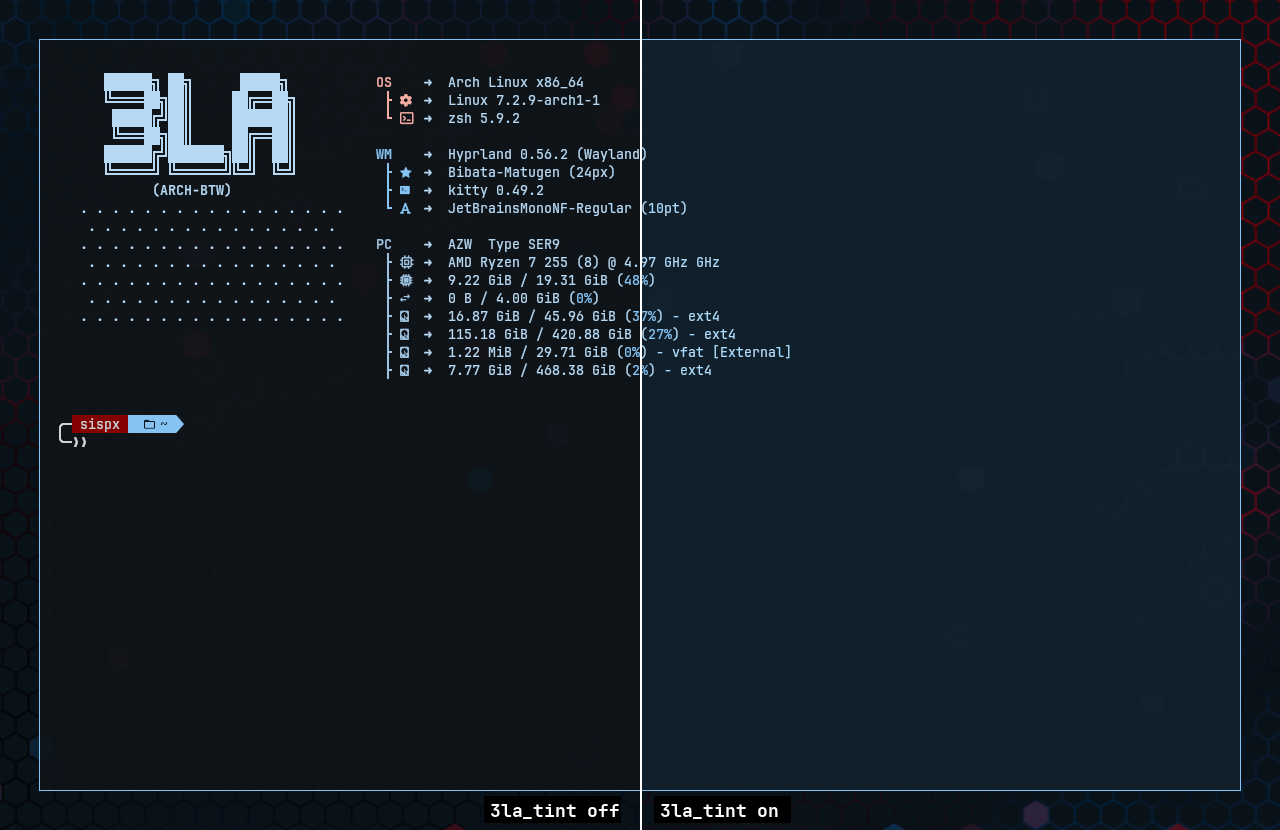
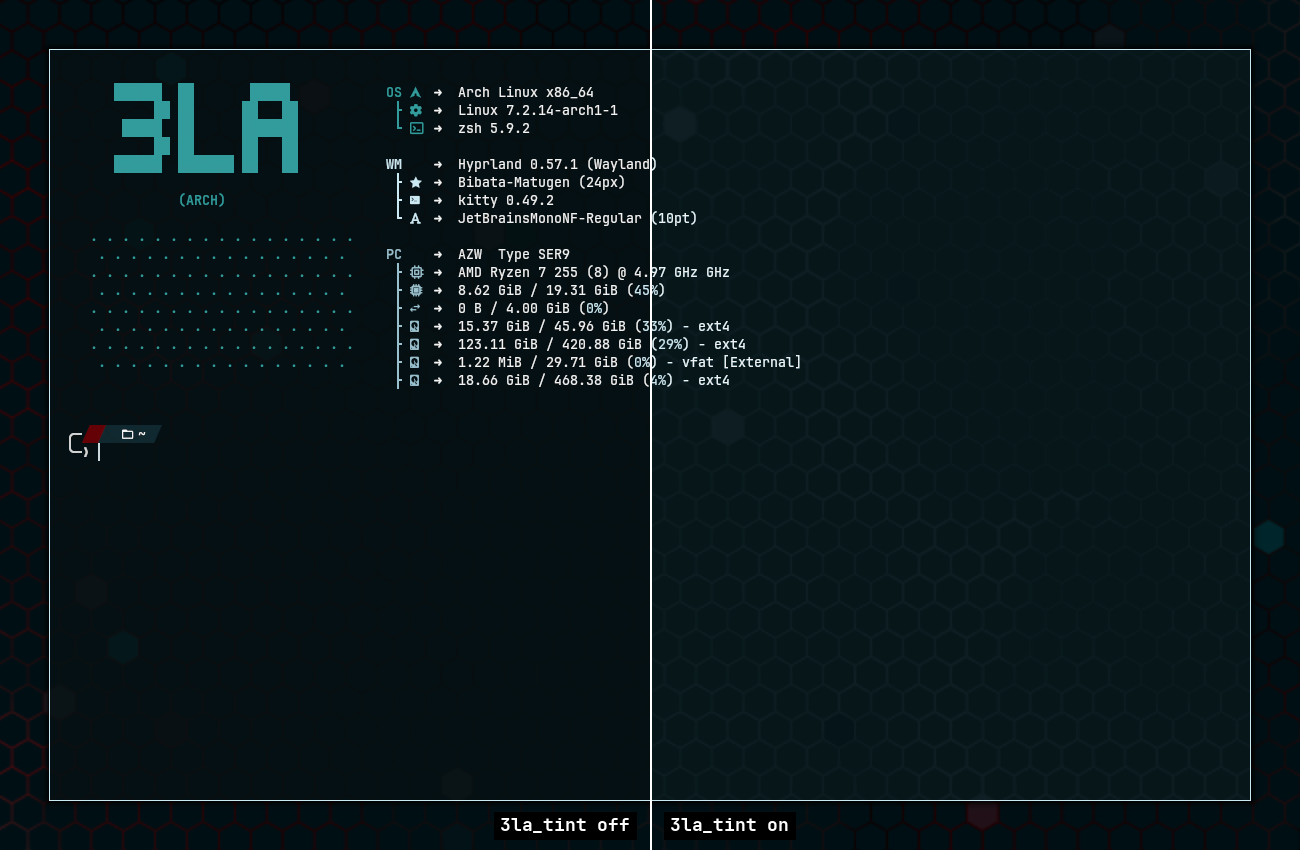
modified:   3LA-Corners/README.md 	modified:   3LA-GlitchClose/README.md 	modified:   3LA-MilSpec/README.md 	modified:   3LA-Tint/README.md 	modified:   3LA-TitleBars/README.md 	modified:   README.md 	modified:   assets/corners.png 	modified:   assets/milspec-no-titlebar.png 	modified:   assets/mils

diff --git a/README.md b/README.md
@@ -5,7 +5,7 @@ aesthetic: chamfered HUD frames, targeting-reticle corner brackets, reserved
 title bars, a GLSL "signal lost" window-close effect, and a shader that pulls
 un-themeable apps toward your theme colour.
 
-All are C++ Hyprland plugins built against **Hyprland 0.57.0** (`0aa6745`),
+All are C++ Hyprland plugins built against **Hyprland 0.57.1** (`acc1aa0`),
 configured only through Hyprland's Lua config (`hl.config`), and installable
 with `hyprpm`. Every plugin has an `enabled` option that turns it off live
 without unloading it.
@@ -138,8 +138,8 @@ fullscreen workspace, with some windows relabelled by `title_rules`:
 
 | | |
 |---|---|
-| **Hyprland 0.57.0** | Matched on *commit hash*, not version string, so two 0.57.0 builds from different commits still mismatch — see [Rebuilding after a Hyprland update](#rebuilding-after-a-hyprland-update) |
-| **Renderer** | 3LA-GlitchClose and 3LA-Tint make raw GL calls through Hyprland's GL renderer, the only renderer 0.57.0 creates. 3LA-Corners, 3LA-TitleBars and 3LA-MilSpec draw only through renderer pass elements. |
+| **Hyprland 0.57.1** | Matched on *commit hash*, not version string, so two 0.57.1 builds from different commits still mismatch — see [Rebuilding after a Hyprland update](#rebuilding-after-a-hyprland-update) |
+| **Renderer** | 3LA-GlitchClose and 3LA-Tint make raw GL calls through Hyprland's GL renderer, the only renderer 0.57.1 creates. 3LA-Corners, 3LA-TitleBars and 3LA-MilSpec draw only through renderer pass elements. |
 | **Function hooks** | 3LA-MilSpec's corner clip hooks two `CSurfacePassElement` methods by symbol name. If they can't be found or hooked, the plugin says so once at load and paints its corner covers instead; nothing else breaks. |
 
 Nothing else. The built `.so` links only the C/C++ runtime — every Hyprland
@@ -348,7 +348,7 @@ hyprctl plugin load   "$PWD/3LA-GlitchClose/3LA-GlitchClose.so"
 | `Package hyprland was not found in the pkg-config search path` | headers missing or off `PKG_CONFIG_PATH` | install the Hyprland headers; check `pkg-config --modversion hyprland` |
 | Notification: *version mismatch* | built against a different Hyprland commit than the running one | rebuild — see above |
 | `hyprctl plugin load` returns an error | relative path, or that path is already loaded (`Cannot load a plugin twice!`) | use an absolute path; `hyprctl plugin unload` first |
-| `hyprctl keyword` → `unknown request` | Hyprland 0.57.0 has no `keyword` command | `hyprctl eval 'hl.config({...})'` |
+| `hyprctl keyword` → `unknown request` | Hyprland 0.57.1 has no `keyword` command | `hyprctl eval 'hl.config({...})'` |
 | `hyprctl dispatch` errors when calling a plugin function | `dispatch` wraps its argument in `hl.dispatch(...)`; the plugins register no dispatchers | `hyprctl eval 'hl.plugin.<name>.<fn>()'` — see [Lua functions](#lua-functions) |
 | `unknown config key 'plugin.…'`, or `hyprctl getoption` → `no such option` | plugin not loaded, or option name misspelled | check `hyprctl plugin list`; guard optional blocks with `hl.get_config` (below) |
 | `error setting '…'` | value out of its registered range (rejected, not clamped) | see the ranges in the plugin's README |

diff --git a/3LA-MilSpec/README.md b/3LA-MilSpec/README.md
@@ -38,7 +38,7 @@ Part of [3LA-Plugins](../README.md).
 
 ## Build and load
 
-Requires Hyprland 0.57.0 headers (see the [main README](../README.md#requirements)).
+Requires Hyprland 0.57.1 headers (see the [main README](../README.md#requirements)).
 Built with `g++ -std=c++26` against `pkg-config` `hyprland pixman-1 libdrm
 cairo pangocairo`. It links `libcairo` (frame drawing) and `libpangocairo`
 (measuring the title's caps, as 3LA-TitleBars also does), both of which
@@ -185,7 +185,7 @@ hl.config({ plugin = { ["3la_milspec"] = {
 } } })
 ```
 
-Live-tweak and inspect (`hyprctl keyword` doesn't exist on 0.57.0):
+Live-tweak and inspect (`hyprctl keyword` doesn't exist on 0.57.1):
 
 ```sh
 hyprctl eval 'hl.config({ plugin = { ["3la_milspec"] = { chamfer = 30, titlebar = 1, ["titlebar.height"] = 22 } } })'
@@ -474,7 +474,7 @@ end, { description = "Toggle title bar on active window" })
 ```
 
 For one-off testing: `hyprctl eval 'hl.plugin.milspec.toggle()'`. There is no
-dispatcher: Hyprland 0.57.0's `addDispatcherV2` is a no-op, so the
+dispatcher: Hyprland 0.57.1's `addDispatcherV2` is a no-op, so the
 `3la_milspec:toggle` the plugin asks for is never registered, and
 `hyprctl dispatch` only takes a Lua expression (`hl.dispatch(...)`).
 

diff --git a/3LA-Tint/README.md b/3LA-Tint/README.md
@@ -34,8 +34,8 @@ Part of [3LA-Plugins](../README.md).
 
 ## Build and load
 
-Requires Hyprland 0.57.0 headers (see the [main README](../README.md#requirements))
-and the **GL renderer** (the only one Hyprland 0.57.0 creates). Tint draws
+Requires Hyprland 0.57.1 headers (see the [main README](../README.md#requirements))
+and the **GL renderer** (the only one Hyprland 0.57.1 creates). Tint draws
 with raw GL; under any other renderer it shows a notification the first time a
 matched window is drawn, and tints nothing.
 

diff --git a/3LA-TitleBars/README.md b/3LA-TitleBars/README.md
@@ -27,7 +27,7 @@ Part of [3LA-Plugins](../README.md).
 
 ## Build and load
 
-Requires Hyprland 0.57.0 headers (see the [main README](../README.md#requirements)).
+Requires Hyprland 0.57.1 headers (see the [main README](../README.md#requirements)).
 Draws only through Hyprland's renderer API (rect/texture pass elements and
 `renderText`), with no raw GL calls. Links `libpangocairo` to measure the
 title's caps; Hyprland itself already depends on it.

diff --git a/3LA-Corners/README.md b/3LA-Corners/README.md
@@ -25,7 +25,7 @@ Part of [3LA-Plugins](../README.md).
 
 ## Build and load
 
-Requires Hyprland 0.57.0 headers (see the [main README](../README.md#requirements)).
+Requires Hyprland 0.57.1 headers (see the [main README](../README.md#requirements)).
 Draws only renderer rect pass elements (no raw GL calls), so it is not tied to
 the GL renderer.
 

diff --git a/3LA-GlitchClose/README.md b/3LA-GlitchClose/README.md
@@ -41,7 +41,7 @@ Part of [3LA-Plugins](../README.md).
 
 ## Build and load
 
-Requires Hyprland 0.57.0 headers (see the [main README](../README.md#requirements)).
+Requires Hyprland 0.57.1 headers (see the [main README](../README.md#requirements)).
 Draws with raw GL calls through Hyprland's GL renderer.
 
 ```sh
